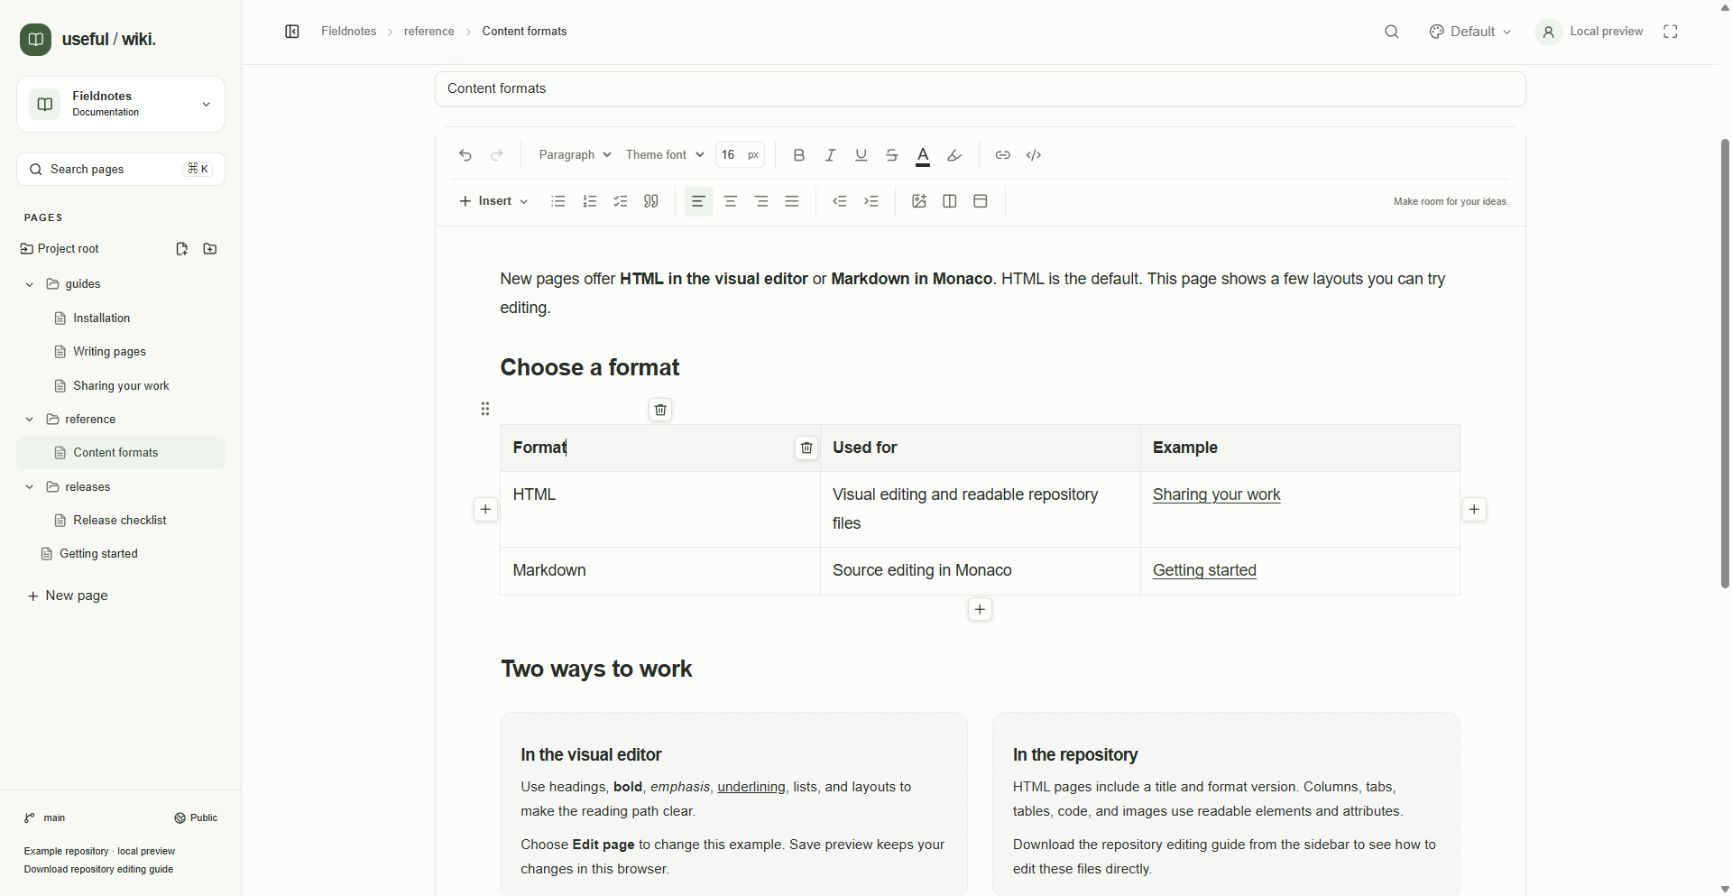
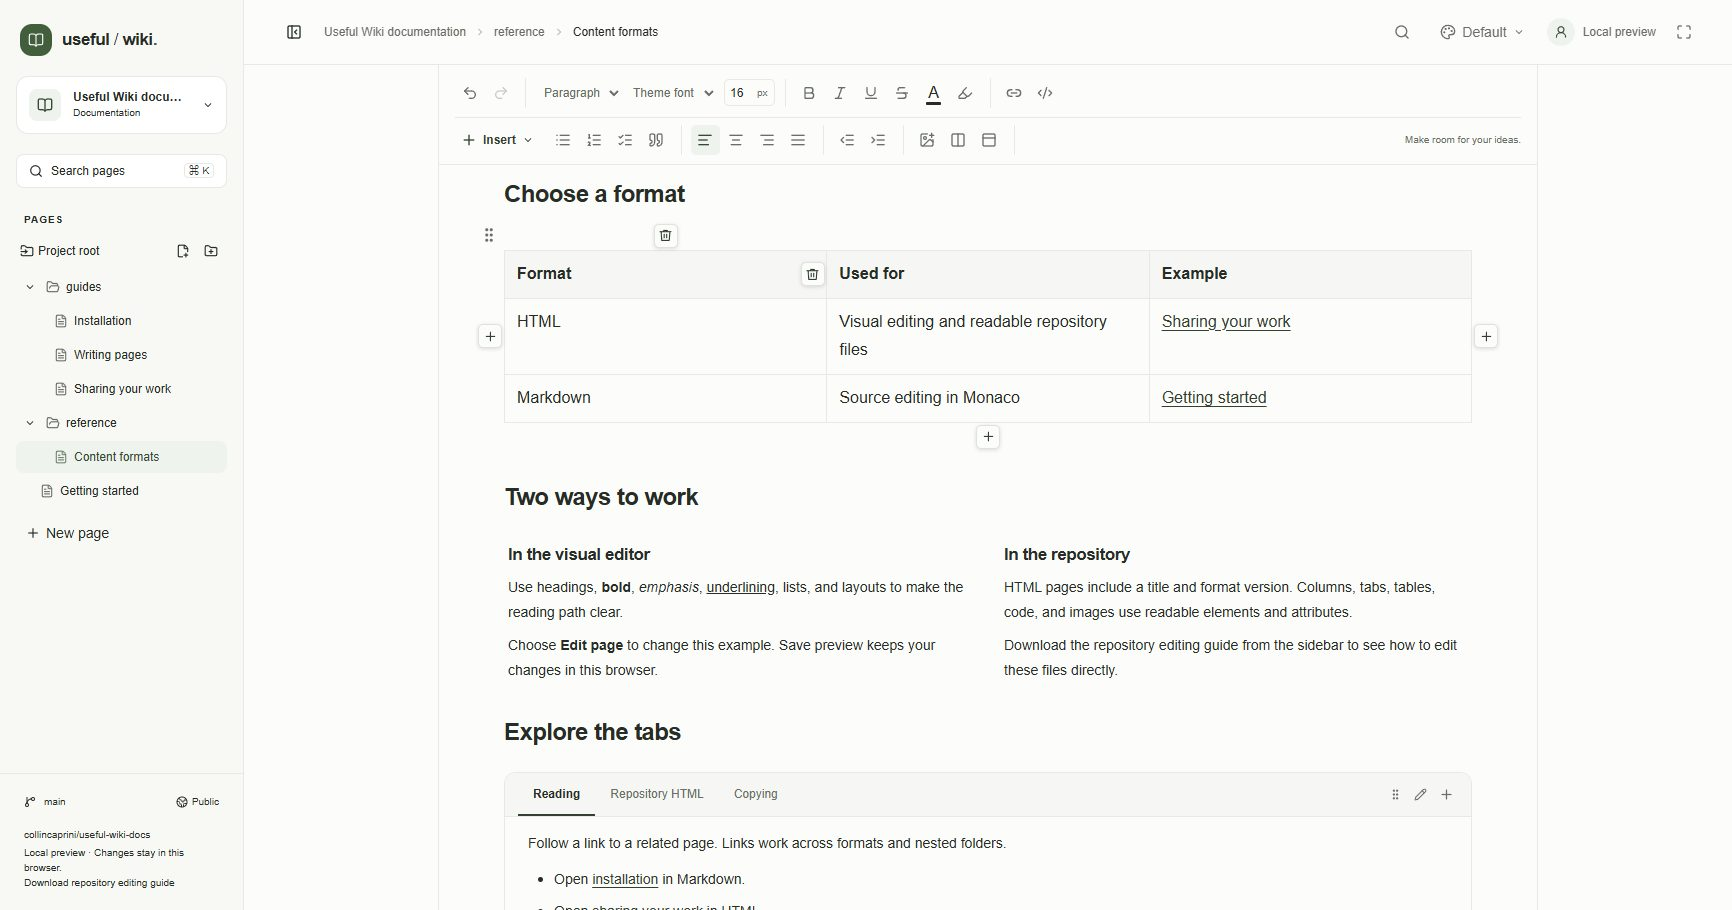
docs: refresh screenshots for the minimal column layout

diff --git a/docs/14-appearance-and-shortcuts.html b/docs/14-appearance-and-shortcuts.html
@@ -18,8 +18,8 @@
   <img src="assets/screenshots/25-appearance-menu.jpg" alt="Local-preview Appearance menu with Light and Dark choices and a scrollable Color theme palette list" width="960">
   <p><em>Choose Light or Dark independently of the palette. This local-preview menu shows Default selected and the start of the scrollable palette list.</em></p>
   <p>Your choice is stored in the current browser and synchronized between its open app tabs. It affects the interface, readers, rich editors, Markdown editor, and code surfaces without saving a repository change. It is not a project setting and does not choose an appearance for other readers.</p>
-  <img src="assets/screenshots/26-dark-mode.jpg" alt="Team handbook local-preview page displayed with the Default palette in Dark mode" width="960">
-  <p><em>The Team handbook local preview in Dark mode. Appearance changes do not publish edits to its content.</em></p>
+  <img src="assets/screenshots/26-dark-mode.jpg" alt="Useful Wiki reference example page in the local preview, with columns sharing the page background in the Default palette's Dark mode" width="960">
+  <p><em>An example page in the Useful Wiki reference local preview in Dark mode. Columns share the page background. Appearance changes do not publish edits to its content.</em></p>
   <h3>Available palettes</h3>
   <p>Default, Amber Minimal, Bold Tech, Bubblegum, Caffeine, Candyland, Catppuccin, Claude, Claymorphism, Clean Slate, Cosmic Night, Cyberpunk, Doom 64, Elegant Luxury, GitHub, Graphite, Kick, Kodama Grove, Midnight Bloom, Mocha Mousse, Modern Minimal, Mono, Nature, Neo Brutalism, Northern Lights, Ocean Breeze, Pastel Dreams, Perpetuity, Quantum Rose, Retro Arcade, Solar Dusk, Spotify, Starry Night, Stripe, Sunset Horizon, Supabase, T3 Chat, Tangerine, Twitch, Twitter, Vercel, Vintage Paper, and Windows 98.</p>
   <h3>Let authored text follow the theme</h3>
@@ -45,8 +45,8 @@
     <li><p>Choose <strong>Exit fullscreen</strong> or press Escape to return to the normal window.</p></li>
   </ol>
   <p>The button is disabled when fullscreen is unavailable in the browser. If a request fails, the app displays an error that can be dismissed. Fullscreen changes the browser presentation, not the document.</p>
-  <img src="assets/screenshots/36-fullscreen.jpg" alt="Local-preview reader with the error Fullscreen could not be changed, Please try again beneath the fullscreen button" width="960">
-  <p><em>The browser refused this fullscreen request and the local preview displayed a retry message. Dismiss the notice or try the control again; this capture does not show a successful fullscreen change.</em></p>
+  <img src="assets/screenshots/36-fullscreen.jpg" alt="Useful Wiki reference local-preview reader in fullscreen, with minimally padded columns and the Exit fullscreen control in the header" width="960">
+  <p><em>This local-preview capture shows fullscreen active on an example page. Choose Exit fullscreen or press Escape to return to the normal browser view.</em></p>
   <h2>How to read the shortcut tables</h2>
   <p><strong>Mod</strong> means Ctrl on Windows/Linux and Cmd on macOS; Alt is Option on macOS. Where a command differs, both versions are listed. Put focus in the relevant surface first. Editor save shortcuts work while focus is inside the content editor, its toolbar, or its content-tab controls; use the save button when focus is in Page title or Describe your change.</p>
   <h3>Project search and sidebar tree</h3>

diff --git a/docs/13-navigation-and-search.html b/docs/13-navigation-and-search.html
@@ -63,8 +63,8 @@
     <li><p>To try another phrase, change the query. The initial title/path list returns until you submit another content search.</p></li>
   </ol>
   <p>Search is limited to the current project. A content search scans up to 60 supported pages on demand. If some pages were not searched, the dialog displays a partial-results message. Pages that cannot be parsed or exceed the document size limit can also make the result incomplete.</p>
-  <img src="assets/screenshots/12-search-content.jpg" alt="Team handbook local-preview content search for work showing matching page excerpts and a count of five results" width="960">
-  <p><em>Searching for “work” in the Team handbook local preview returns five results with excerpts. Typing alone filters titles and paths; Search content performs the body search shown here.</em></p>
+  <img src="assets/screenshots/12-search-content.jpg" alt="Useful Wiki reference local-preview content search for work in example pages, showing matching excerpts and a count of five results" width="960">
+  <p><em>Searching these example pages for “work” in the Useful Wiki reference local preview returns five results with excerpts. Typing alone filters titles and paths; Search content performs the body search shown here.</em></p>
   <p>A no-match result is not proof that a larger repository contains no matching text. Narrow your reading with the folder tree or inspect the repository directly when you need to cover pages outside the scan. Private search results require your GitHub repository access; there is no shared background content index.</p>
   <p>While editing Markdown, Ctrl/Cmd+K is reserved for Monaco's own command chords. Use a project search button instead. For editor find/replace commands, see <a href="14-appearance-and-shortcuts.html">Appearance and shortcuts</a>.</p>
   <h2>Explore connections in a wiki</h2>
@@ -85,7 +85,7 @@
     <li><p>Read any message indicating that no other pages link here or that only part of the project was checked.</p></li>
   </ol>
   <p>Backlink discovery scans up to 60 supported pages. It is requested when you use the button, rather than maintained by a background crawler. Demo backlinks are calculated from the local sample pages and can appear without a lookup button.</p>
-  <img src="assets/screenshots/31-wiki-backlinks.jpg" alt="Welcome to the handbook page footer showing Pages that link here with How we work and Shared vocabulary links" width="960">
+  <img src="assets/screenshots/31-wiki-backlinks.jpg" alt="Welcome to the reference example page with minimally padded columns and a footer showing Pages that link here, including How we work and Shared vocabulary links" width="960">
   <p><em>The demo calculates backlinks from its local pages: How we work and Shared vocabulary link to this page. In a connected Wiki project, use Find pages that link here to request discovery.</em></p>
   <p>Discovery recognizes repository-relative page links. A full hosted URL may still open the right page without being included in outgoing-link or backlink lists. Renamed or moved pages need their old links updated. Use <a href="04-sharing-and-access.html">Sharing and access</a> for the visual link workflow and <a href="06-editing-from-your-repository.html">Editing from your repository</a> for portable source links.</p>
   <h2>Use the project footer</h2>

diff --git a/docs/10-rich-text-and-layouts.html b/docs/10-rich-text-and-layouts.html
@@ -62,9 +62,9 @@
     <li><p>Drag a vertical separator to resize adjacent columns. You can also focus <strong>Resize column 1</strong> or another separator and press Left/Right to change the split in two-percentage-point steps. Each adjacent column retains at least 12% width. Double-click a separator to restore equal widths.</p></li>
     <li><p>Use <strong>Drag columns</strong> to move the group. Use <strong>Convert columns to normal blocks</strong> to keep all the content in column order and remove the column layout.</p></li>
   </ol>
-  <p><strong>Delete column</strong> removes that column and its contents in one undoable action. If you remove one of two columns, the remaining content becomes ordinary blocks. Columns stack vertically on narrow screens.</p>
-  <img src="assets/screenshots/35-column-controls.jpg" alt="Two editable columns in the local demo, showing group drag, add-column, convert-to-blocks controls, and a column's delete button." width="960">
-  <p><em>Local demo: the controls above the two-column group move it, add a column, or convert it to ordinary blocks. The × inside a column removes that column and its contents.</em></p>
+  <p><strong>Delete column</strong> removes that column and its contents in one undoable action. If you remove one of two columns, the remaining content becomes ordinary blocks. Columns share the page background with minimal internal spacing and stack vertically on narrow screens.</p>
+  <img src="assets/screenshots/35-column-controls.jpg" alt="Two editable columns on the page background in a local-preview example, showing group drag, add-column, convert-to-blocks controls, and a column's delete button." width="960">
+  <p><em>Local-preview example: columns have minimal padding and no separate background or border. The controls above the group move it, add a column, or convert it to ordinary blocks. The × inside a column removes that column and its contents.</em></p>
   <h2>Create and edit content tabs</h2>
   <ol>
     <li><p>Choose <strong>Insert → Content tabs</strong>. A new group starts with <strong>Overview</strong> and <strong>Details</strong>.</p></li>

diff --git a/docs/06-editing-from-your-repository.html b/docs/06-editing-from-your-repository.html
@@ -42,8 +42,8 @@
 &lt;p&gt;&lt;a href="guides/writing.html"&gt;Writing guide&lt;/a&gt;&lt;/p&gt;
 </code></pre>
   <p>Keep code whitespace intact. Store image files separately and use descriptive alternative text. Resolve image and page links relative to the current document; a nested page may need <code>../assets/example.png</code>. Do not save session-bound <code>/api/projects/...</code> image URLs into repository files. When moving a file or folder, update affected inbound links and relative asset paths.</p>
-  <img src="assets/screenshots/14-reader-tabs-and-code.jpg" alt="Fieldnotes Content formats page with Repository HTML tab selected, showing an HTML relative link in a code block and the rendered Sharing your work link below" width="960">
-  <p><em>In the local preview, open Content formats and select Repository HTML to compare a relative link's source with its rendered result. Save preview keeps edits in the browser; Save to repository publishes a commit in a connected project.</em></p>
+  <img src="assets/screenshots/14-reader-tabs-and-code.jpg" alt="Local-preview Content formats example with minimally padded columns on the page background and Repository HTML selected, showing a relative link in code and the rendered Sharing your work link below" width="960">
+  <p><em>This local-preview Content formats example has Repository HTML selected to compare a relative link's source with its rendered result. Save preview keeps edits in the browser; Save to repository publishes a commit in a connected project.</em></p>
   <h3>Columns</h3>
   <pre><code class="language-html">&lt;div data-type="columns" data-widths="[50,50]" style="display:grid;grid-template-columns:minmax(0,50fr) minmax(0,50fr);gap:24px"&gt;
   &lt;div data-type="column"&gt;&lt;p&gt;Left column.&lt;/p&gt;&lt;/div&gt;

diff --git a/readme.md b/readme.md
@@ -30,7 +30,7 @@ These are intended registration settings, not a claim that the repository is alr
 
 Detailed feature guides cover [rich text and layouts](docs/10-rich-text-and-layouts.html), [images and links](docs/11-images-and-links.html), [navigation and search](docs/13-navigation-and-search.html), and [appearance and shortcuts](docs/14-appearance-and-shortcuts.html).
 
-Screenshots live in `docs/assets/screenshots/`. Screenshots showing **Local preview** document the built-in local examples: **Save preview** stays in browser storage, while **Save to repository** publishes a Git commit in a connected project. Captions identify the state shown; a screenshot of a preview is not proof of a live registration or deployment.
+Screenshots live in `docs/assets/screenshots/`. Screenshots showing **Local preview** illustrate the app with example pages, including locally loaded samples for editor and navigation features: **Save preview** stays in browser storage, while **Save to repository** publishes a Git commit in a connected project. Captions identify the state shown; a screenshot of a preview is not proof of a live registration or deployment.
 
 ## Edit the docs
 
